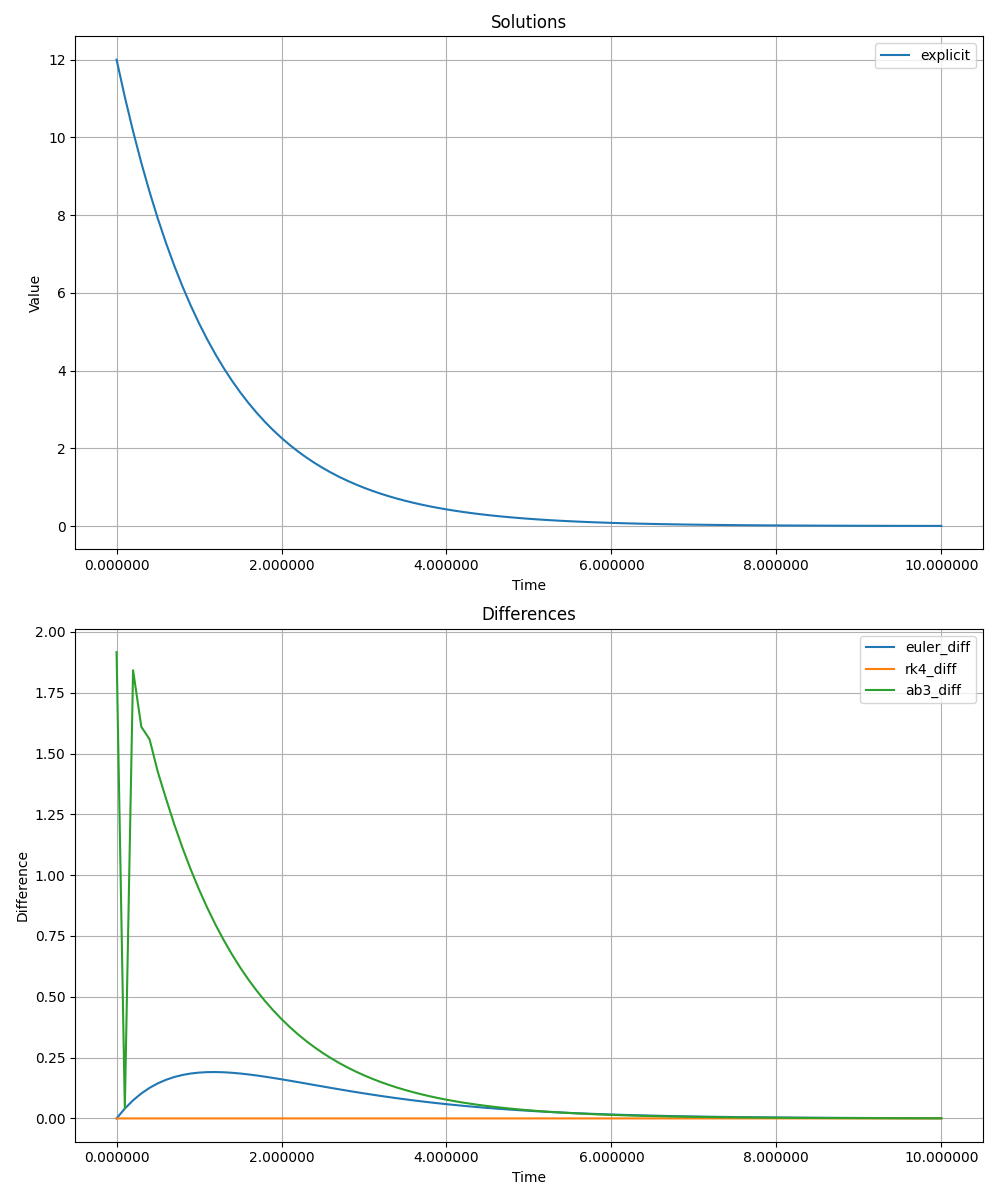
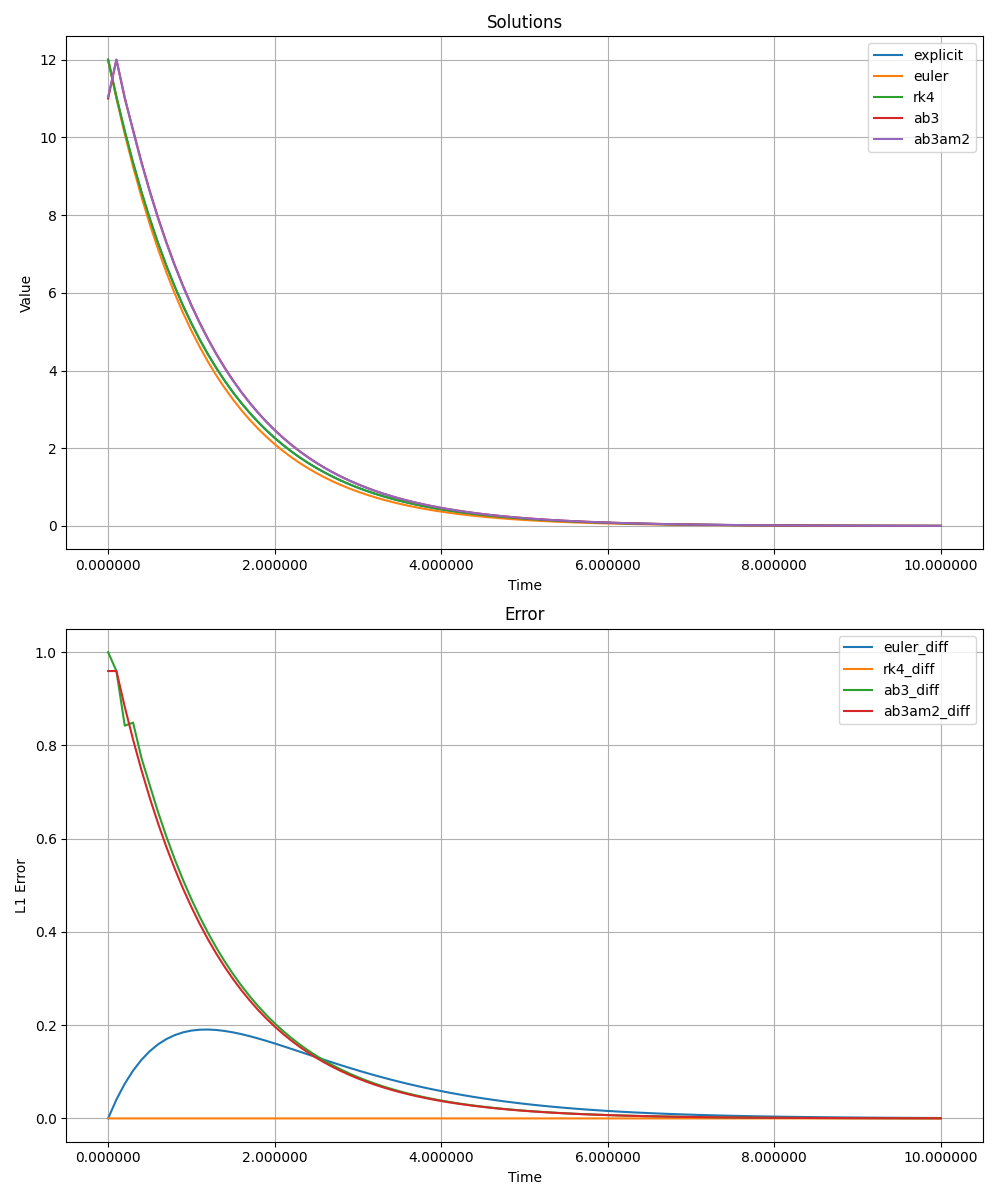
results

diff --git a/viz.py b/viz.py
@@ -23,9 +23,9 @@ ax1.legend(loc='upper right')
 ax1.grid(True)
 
 differences_data.T.plot(ax=ax2)
-ax2.set_title('Differences')
+ax2.set_title('Error')
 ax2.set_xlabel('Time')
-ax2.set_ylabel('Difference')
+ax2.set_ylabel('L1 Error')
 ax2.legend(loc='upper right')
 ax2.grid(True)
 
